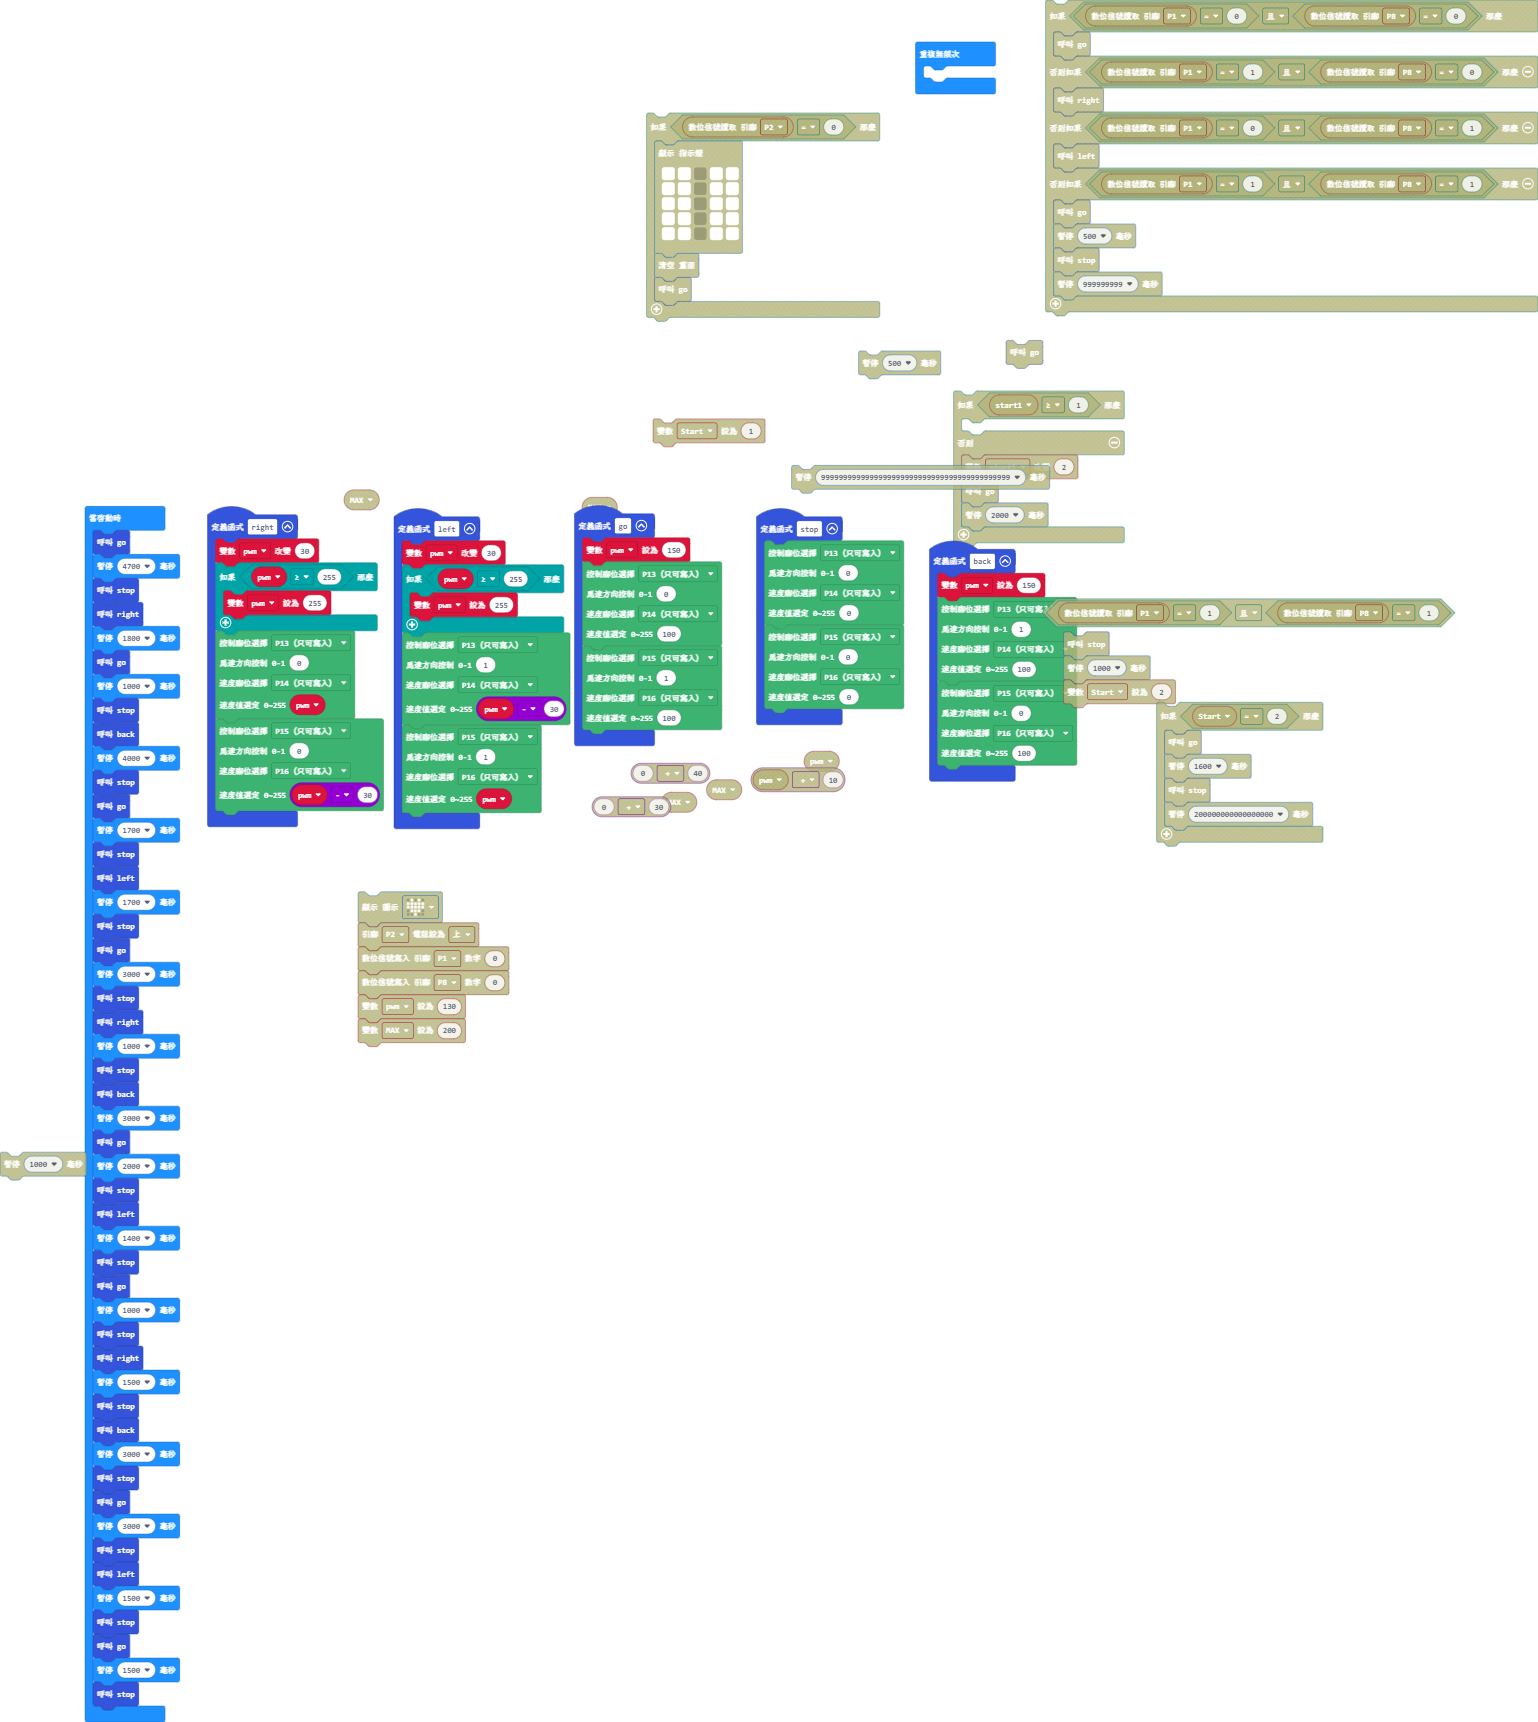
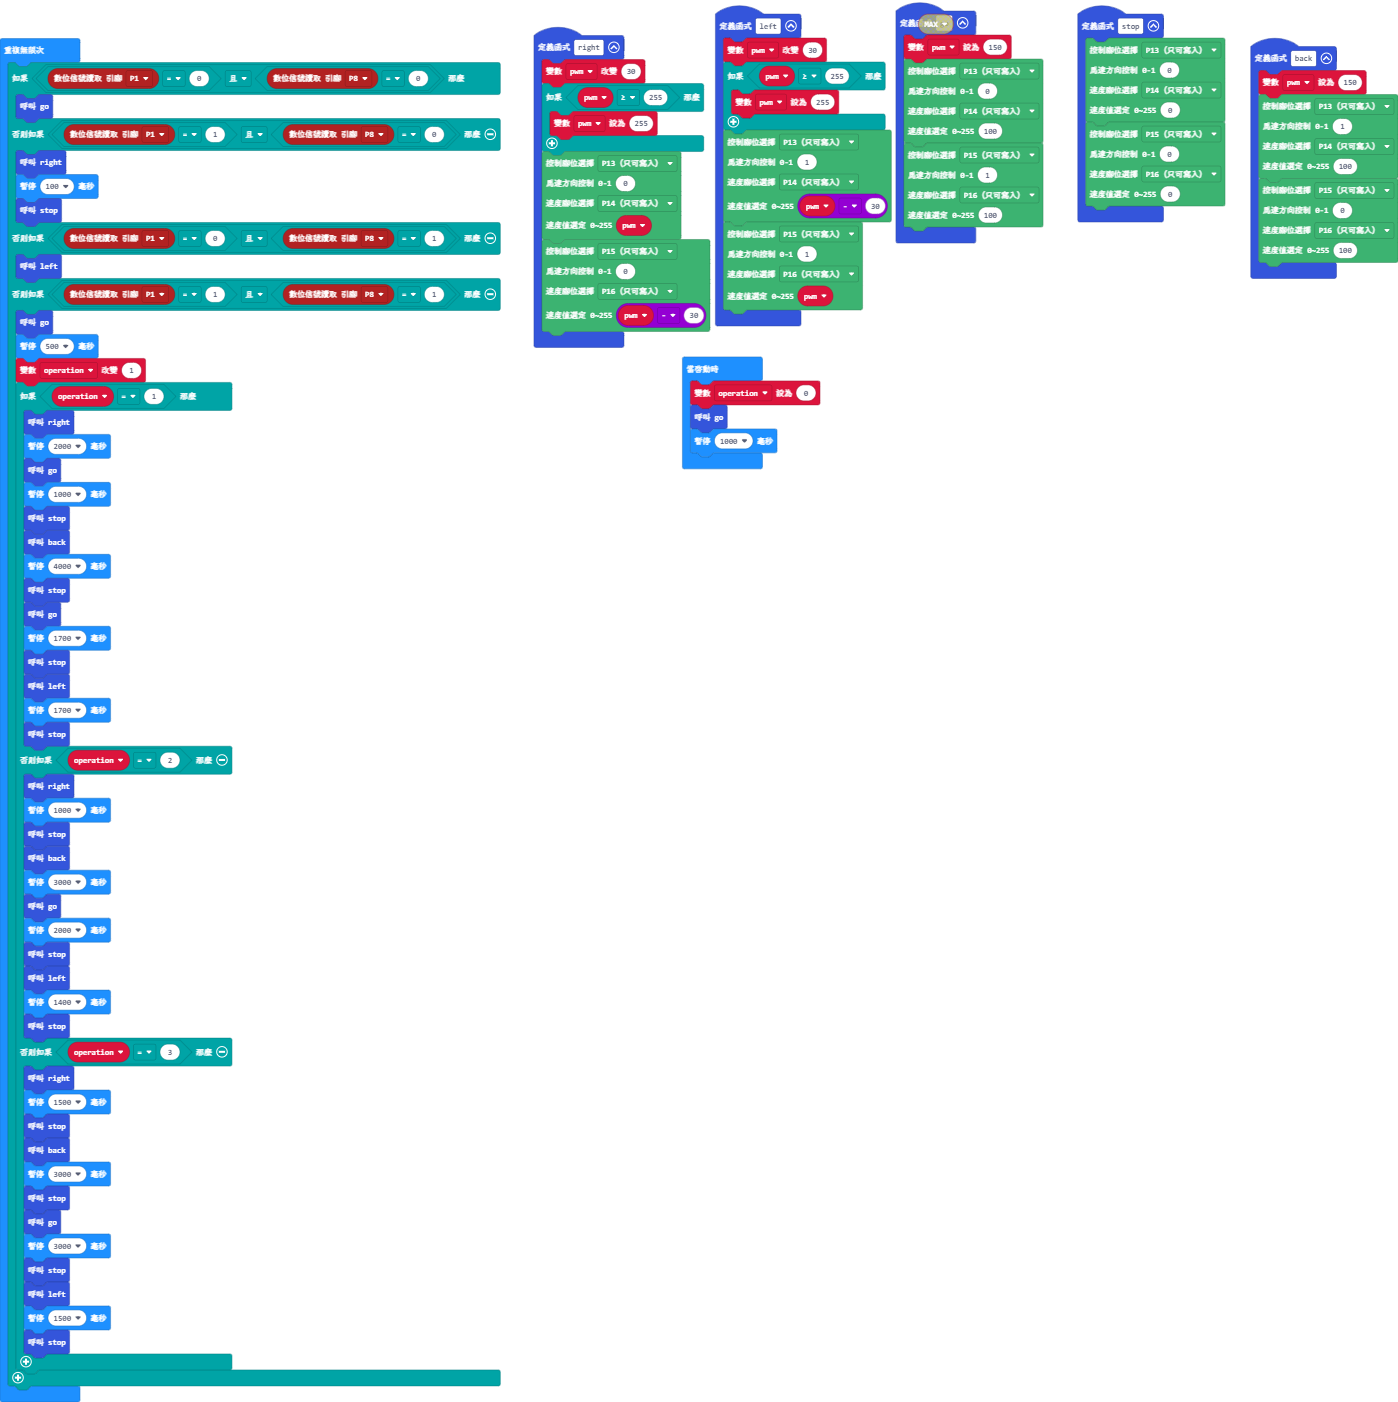
bug fix

diff --git a/main.ts b/main.ts
@@ -79,55 +79,62 @@ function go () {
     )
 }
 let pwm = 0
-go()
-basic.pause(4700)
-stop()
-right()
-basic.pause(1800)
+let operation = 0
 go()
 basic.pause(1000)
-stop()
-back()
-basic.pause(4000)
-stop()
-go()
-basic.pause(1700)
-stop()
-left()
-basic.pause(1700)
-stop()
-go()
-basic.pause(3000)
-stop()
-right()
-basic.pause(1000)
-stop()
-back()
-basic.pause(3000)
-go()
-basic.pause(2000)
-stop()
-left()
-basic.pause(1400)
-stop()
-go()
-basic.pause(1000)
-stop()
-right()
-basic.pause(1500)
-stop()
-back()
-basic.pause(3000)
-stop()
-go()
-basic.pause(3000)
-stop()
-left()
-basic.pause(1500)
-stop()
-go()
-basic.pause(1500)
-stop()
 basic.forever(function () {
-	
+    if (pins.digitalReadPin(DigitalPin.P1) == 0 && pins.digitalReadPin(DigitalPin.P8) == 0) {
+        go()
+    } else if (pins.digitalReadPin(DigitalPin.P1) == 1 && pins.digitalReadPin(DigitalPin.P8) == 0) {
+        right()
+        basic.pause(100)
+        stop()
+    } else if (pins.digitalReadPin(DigitalPin.P1) == 0 && pins.digitalReadPin(DigitalPin.P8) == 1) {
+        left()
+    } else if (pins.digitalReadPin(DigitalPin.P1) == 1 && pins.digitalReadPin(DigitalPin.P8) == 1) {
+        go()
+        basic.pause(500)
+        operation += 1
+        if (operation == 1) {
+            right()
+            basic.pause(2000)
+            go()
+            basic.pause(1000)
+            stop()
+            back()
+            basic.pause(4000)
+            stop()
+            go()
+            basic.pause(1700)
+            stop()
+            left()
+            basic.pause(1700)
+            stop()
+        } else if (operation == 2) {
+            right()
+            basic.pause(1000)
+            stop()
+            back()
+            basic.pause(3000)
+            go()
+            basic.pause(2000)
+            stop()
+            left()
+            basic.pause(1400)
+            stop()
+        } else if (operation == 3) {
+            right()
+            basic.pause(1500)
+            stop()
+            back()
+            basic.pause(3000)
+            stop()
+            go()
+            basic.pause(3000)
+            stop()
+            left()
+            basic.pause(1500)
+            stop()
+        }
+    }
 })
